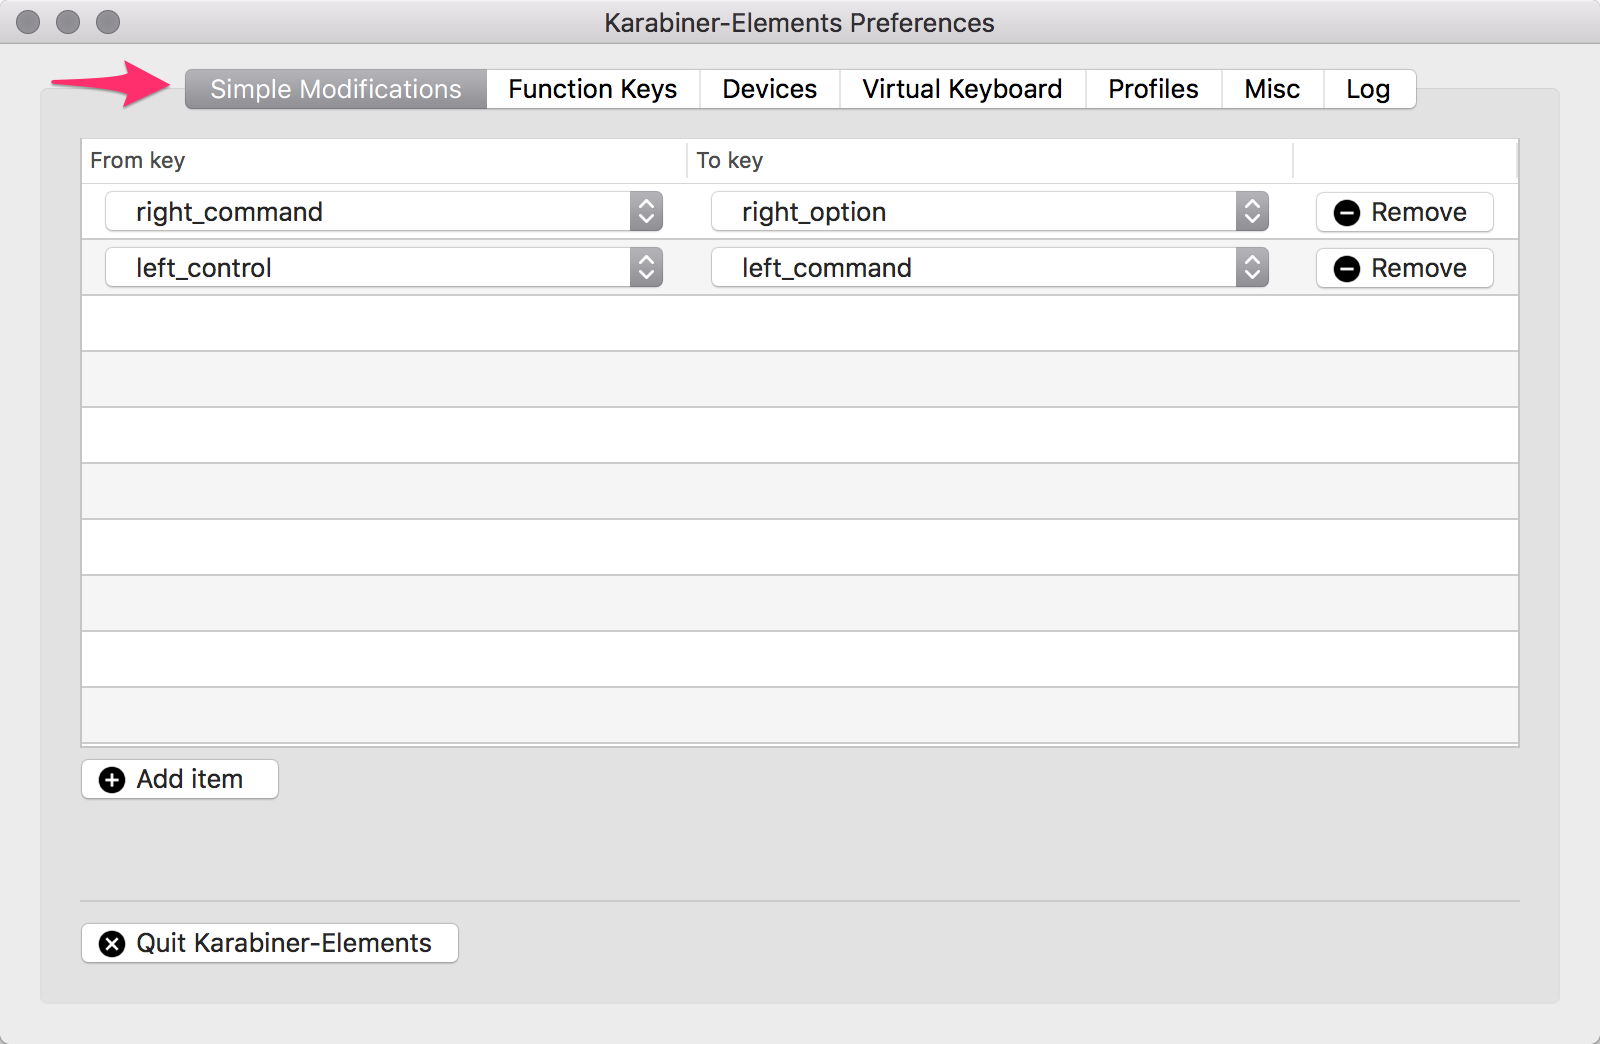
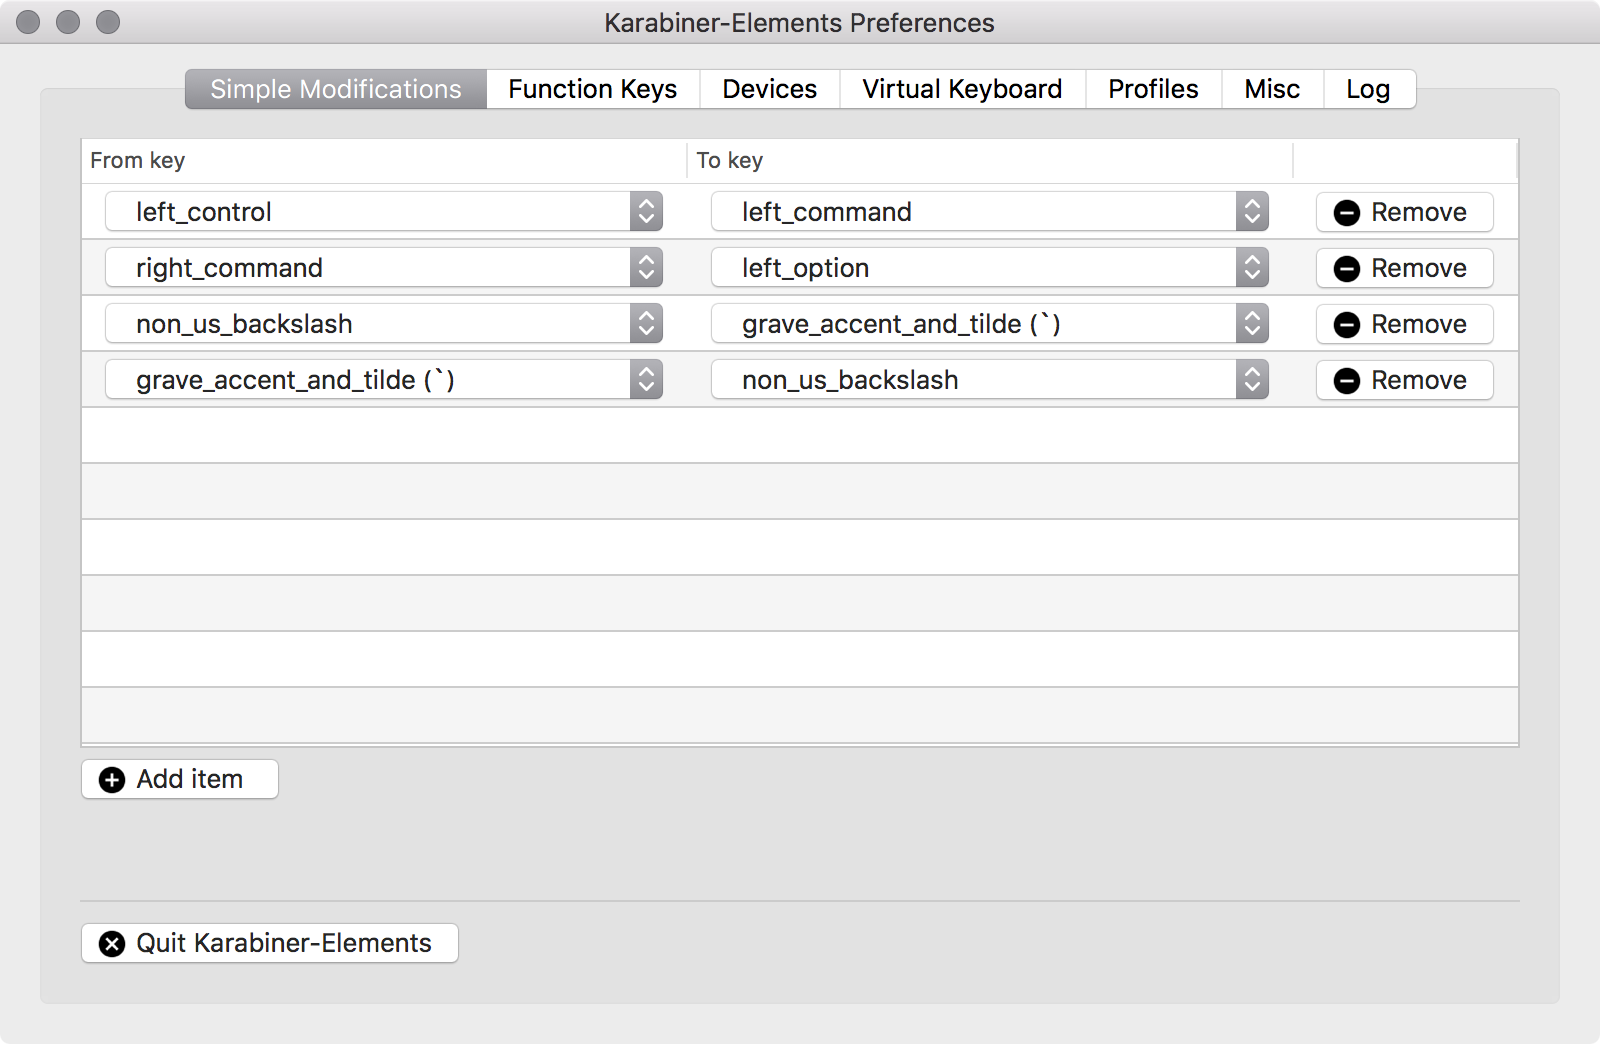
new

diff --git a/README.md b/README.md
@@ -15,10 +15,14 @@
 
 **Remap Left-Control and Right-Cmd with Karabiner Elements**
 
-We remap these two keys with [Karabiner Elements](https://github.com/tekezo/Karabiner-Elements) under macOS Sierra.
+We remap these two with [Karabiner Elements](https://github.com/tekezo/Karabiner-Elements) under macOS Sierra.
 
-<p align="center"><img src="https://clouless.github.io/macos-keyboard-remapping/v2/karabiner-elements-remap.png" width="80%"></p>
+<p align="center"><img src="https://clouless.github.io/macos-keyboard-remapping/v2/karabiner-elements-remap.png?v2" width="80%"></p>
 
+ * Remap left-ctrl to left-cmd
+ * Remap right-cmd to right-alt
+ * Remap `<` to `^`
+ * Remap `^` to `<`
 
 **Remap Keys in Keyboard Maestro**
 
